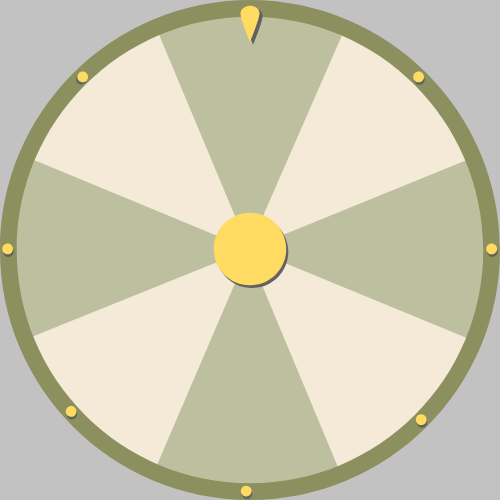
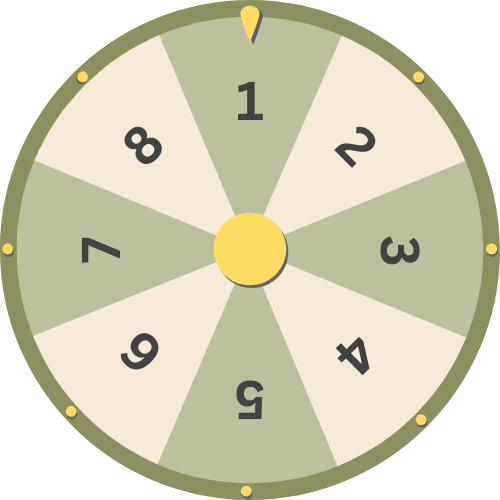
added wheel of fortune

diff --git a/genome_gazillionaire/lib/views/dealspage/deals_list/negotiation/negotiation_dialog.dart b/genome_gazillionaire/lib/views/dealspage/deals_list/negotiation/negotiation_dialog.dart
@@ -1,3 +1,6 @@
+import 'dart:async';
+import 'dart:math';
+
 import 'package:flutter/material.dart';
 import 'package:genome_gazillionaire/data/user_data.dart';
 import 'package:genome_gazillionaire/models/deal_model.dart';
@@ -7,13 +10,52 @@ import 'package:genome_gazillionaire/views/globals/buttons/orange_elevated_butto
 import 'package:genome_gazillionaire/views/globals/dialogs/large_dialog_box.dart';
 import 'package:genome_gazillionaire/views/globals/global_styles.dart';
 
-class NegotiationDialog extends StatelessWidget {
+class NegotiationDialog extends StatefulWidget {
   NegotiationDialog({super.key, required this.deal, required this.signDeal});
 
   final Deal deal;
   final void Function(Deal) signDeal;
 
+  @override
+  State<NegotiationDialog> createState() => _NegotiationDialogState();
+}
+
+class _NegotiationDialogState extends State<NegotiationDialog> {
+  _NegotiationDialogState();
   final user = userData;
+  double turns = 0;
+
+  Random random = Random();
+  int wheelImageIndex = 0;
+  int counter = 0;
+  final List<String> wheelImages = [
+    '../../../../assets/images/wheel_1.png',
+    '../../../../assets/images/wheel_2.png',
+    '../../../../assets/images/wheel_3.png',
+    '../../../../assets/images/wheel_4.png',
+    '../../../../assets/images/wheel_5.png',
+    '../../../../assets/images/wheel_6.png',
+    '../../../../assets/images/wheel_7.png',
+    '../../../../assets/images/wheel_8.png'
+  ];
+
+  void spinWheel() {
+    int num = random.nextInt(7) + 1;
+    setState(() {
+      turns += 1 + num / 8;
+    });
+
+    if (num/8 <= widget.deal.baseLoopholePercent/100) {
+      widget.deal.process.seizeProcess(widget.deal.loopholeOwnershipHours);
+    } 
+
+    Timer(const Duration(milliseconds: 1200), () {
+      widget.signDeal(widget.deal);
+      setState(() {
+        turns = 0;
+      });
+    }); 
+  }
 
   @override
   Widget build(BuildContext context) {
@@ -25,7 +67,7 @@ class NegotiationDialog extends StatelessWidget {
           SizedBox(
             width: 250,
             child: Text(
-              deal.title,
+              widget.deal.title,
               style: titleStyle,
               textAlign: TextAlign.center,
               textScaler: const TextScaler.linear(1.2),
@@ -39,27 +81,44 @@ class NegotiationDialog extends StatelessWidget {
           SizedBox(
             width: 250, 
             child: Text(
-              deal.negotiationDescription,
+              widget.deal.negotiationDescription,
               style: blackSubtitleStyle,
               textAlign: TextAlign.center,
             ),
           ),
-          const SizedBox(height: 30),
-          ClipOval(
-            child: SizedBox(
-              height: 200,
-              child: Image.asset('../../../../assets/images/wheel.png'),
+          SizedBox(
+            height: 200, 
+            child: Stack(
+              children: <Widget>[
+                Padding(
+                  padding: const EdgeInsets.all(30),
+                  child: AnimatedRotation(
+                    turns: turns, 
+                    duration: const Duration(seconds: 1),
+                    child: Image.asset('../../../../assets/images/wheel.png')
+                  ),
+                ),
+                Padding(
+                  padding: const EdgeInsets.all(30),
+                  child: Image.asset('../../../../assets/images/pointer.png')
+                ),
+              ],
             ),
           ),
-          const SizedBox(height: 30),
-          NegotiationLoopholeDescription(deal: deal),
+          NegotiationLoopholeDescription(deal: widget.deal),
           const Spacer(),
           Row(
             mainAxisAlignment: MainAxisAlignment.center,
             children: [
               OrangeElevatedButton(
                 text: "Sign",
-                onPressed: () => signDeal(deal),
+                onPressed: () { 
+                  if (!widget.deal.process.isPurchased || user.balance < widget.deal.cost || widget.deal.isPurchased) {
+                    widget.signDeal(widget.deal); 
+                  } else {
+                    spinWheel();
+                  }
+                },
               ),
               OrangeElevatedButton(
                 text: "Back out",

diff --git a/genome_gazillionaire/lib/models/deal_model.dart b/genome_gazillionaire/lib/models/deal_model.dart
@@ -32,10 +32,10 @@ class Deal extends Entity {
     _isPurchased = true;
     process.currentMultiplier *= multiplierValue;
 
-    final double random = Random().nextDouble() * 100;
+    /* final double random = Random().nextDouble() * 100;
     if (random < effectiveLoopholePercent) {
       process.seizeProcess(loopholeOwnershipHours);
-    }
+    } */
   }
 
   int get effectiveLoopholePercent => baseLoopholePercent + userData.numLawyers;

diff --git a/genome_gazillionaire/lib/views/investorspage/investors_list/pitch/pitch_dialog.dart b/genome_gazillionaire/lib/views/investorspage/investors_list/pitch/pitch_dialog.dart
@@ -59,14 +59,6 @@ class _PitchDialogState extends State<PitchDialog> {
         timer.cancel();
       }
     });
-
-    /* if (diceImageIndex + 1 >= investor.minDiceRoll) {
-      signInvestor(investor);
-    } else {
-      setState(() {
-        investor.decTries();
-      });
-    }  */
   }
 
   @override
